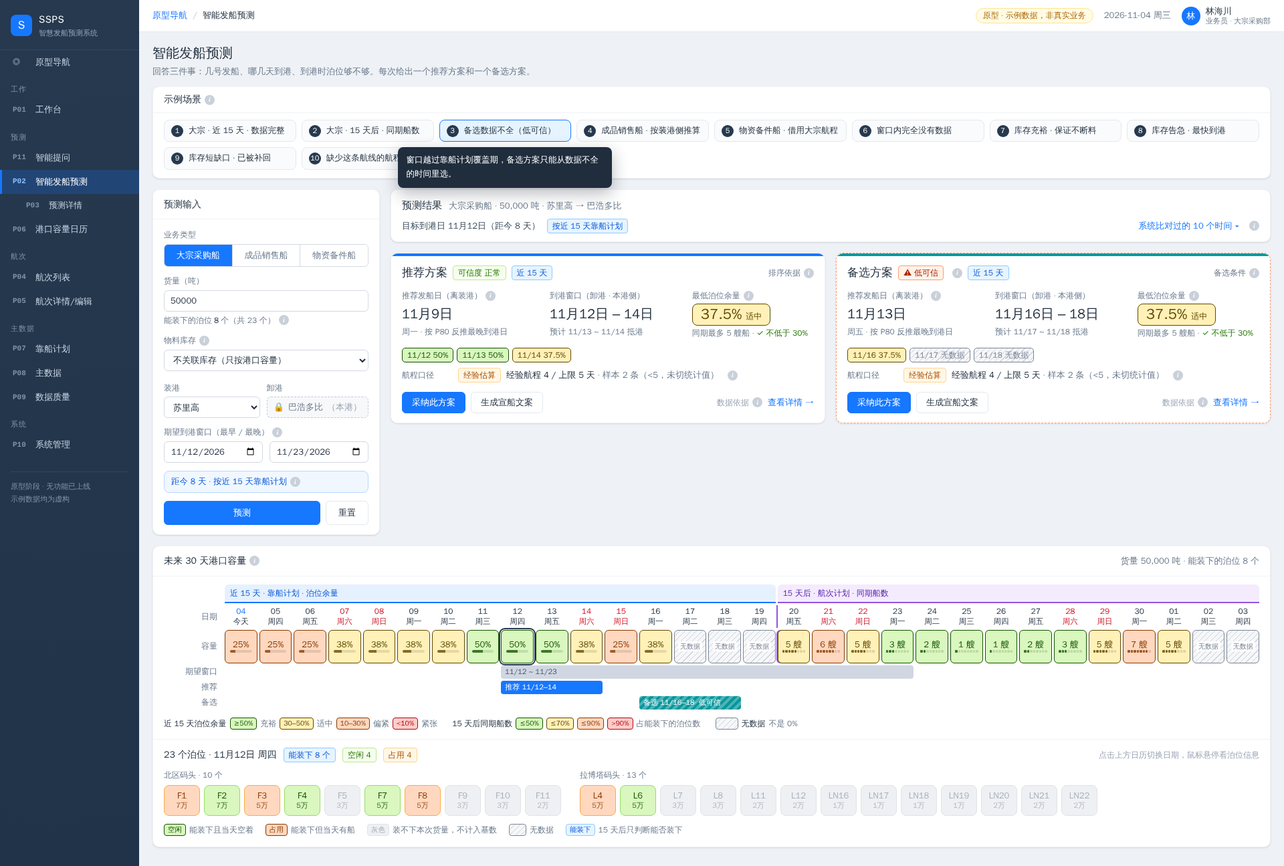
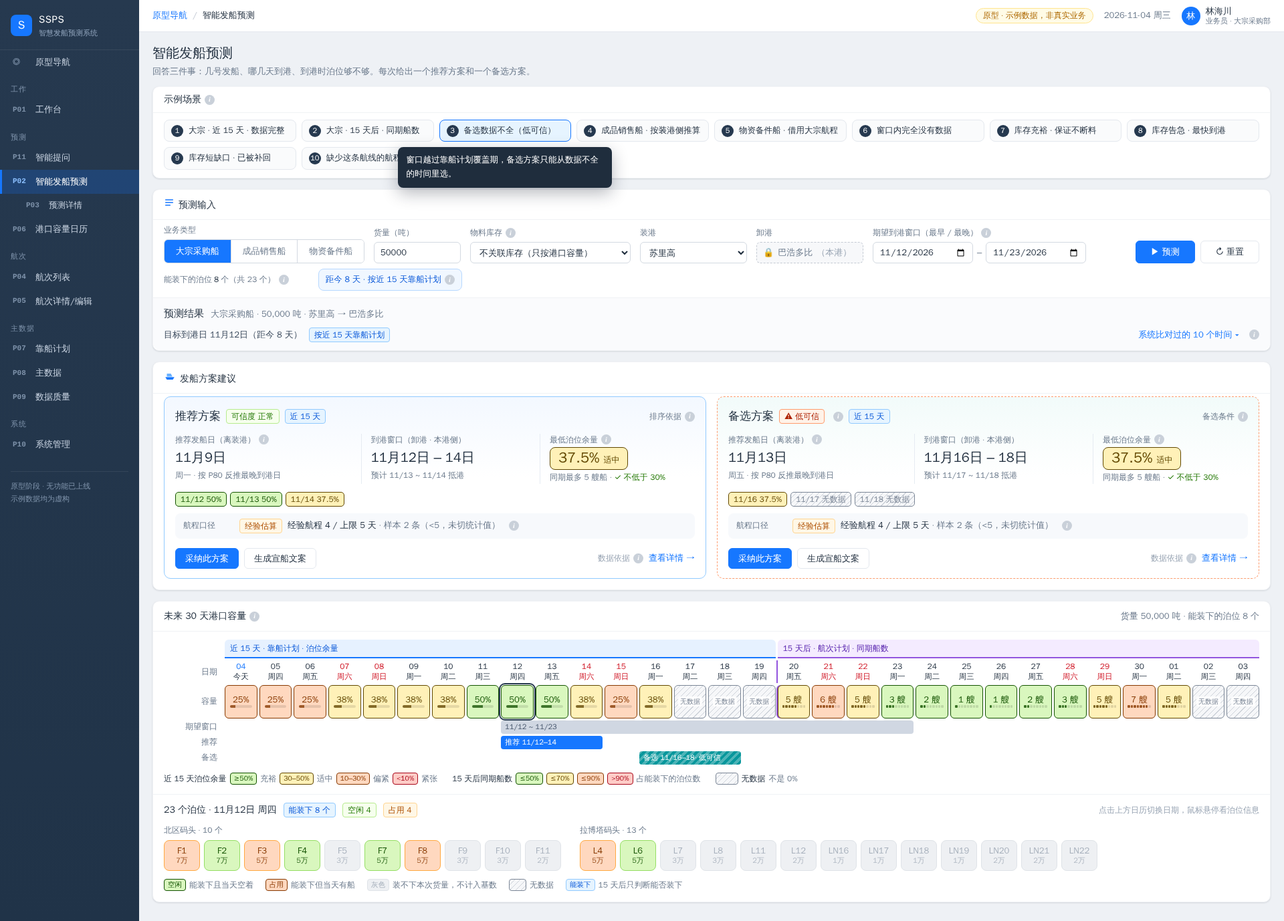
P02 按效果图重新排版：横向预测输入、发船方案建议卡、库存保障与趋势（左指标右图表，趋势/明细与 7/15/30 天切换）；计算不变
Claude-Session: https://claude.ai/code/session_01S7EgPzREeeBA8rsxhMLUP6

diff --git a/prototype/P02-prediction.html b/prototype/P02-prediction.html
@@ -8,7 +8,17 @@
 <style>
 /* —— 整体：所有短文本一律不换行，放不下就整块换到下一行，而不是在文字中间断开 —— */
 .nw{white-space:nowrap}
-.work{display:grid;grid-template-columns:340px minmax(0,1fr);gap:16px;align-items:start}
+/* 预测输入：横向一行（2026-11-05 按效果图重排，业务逻辑不变） */
+.inbar{margin-bottom:16px}
+.frow{display:flex;flex-wrap:wrap;gap:12px 14px;align-items:flex-end;padding:6px 16px 8px}
+.fc{min-width:0}
+.fc .seg{width:300px}.fc .seg button{padding:7px 4px;white-space:nowrap}
+.win{display:flex;align-items:center;gap:6px}.win .inp{width:150px}.win span{color:var(--muted)}
+.fbtn{display:flex;gap:8px;margin-left:auto}.fbtn .btn{height:34px;padding:0 22px;white-space:nowrap}
+.hints{display:flex;flex-wrap:wrap;gap:6px 22px;align-items:center;padding:0 16px 10px}
+.hints .mini{margin:0}.hints .pathbox{margin:0}.hints .err{margin:0}
+#sumbar:empty{display:none}
+#sumbar{border-top:1px solid var(--line-2);background:#fafbfd;border-radius:0 0 12px 12px}
 /* 示例场景 */
 .pbar{display:grid;grid-template-columns:repeat(auto-fit,minmax(196px,1fr));gap:8px;padding:10px 16px 12px}
 .preset{display:flex;gap:8px;align-items:center;border:1px solid var(--line);border-radius:8px;background:#fafbfc;padding:6px 10px;cursor:pointer;text-align:left;min-width:0}
@@ -43,6 +53,17 @@
 .link{border:0;background:none;color:var(--primary);cursor:pointer;padding:0;font-size:13px;white-space:nowrap}
 /* 方案卡片 */
 .plans{display:grid;grid-template-columns:repeat(auto-fit,minmax(580px,1fr));gap:16px;margin-top:16px}
+/* 发船方案建议 */
+.pcard{margin-bottom:16px}
+.pcard .plans{margin:0;padding:4px 16px 16px}
+.pcard .plan{box-shadow:none;border:1px solid #e3e8ef}
+.pcard .plan:before{display:none}
+.pcard .plan.A{background:linear-gradient(180deg,#f3f8ff 0,#fff 120px);border-color:#91caff}
+.pcard .plan.B{background:linear-gradient(180deg,#f2fbfa 0,#fff 120px);border-color:#87e8de}
+.pcard .plan.low{border:1.5px dashed #ff9c6e}
+.pcard .plan.noplan{border:1.5px dashed #c4cad3}
+.pcard .mgrid .m+.m{border-left:1px solid #e6ebf2;padding-left:14px}
+.pcard .kvs{margin:10px 16px 0;padding:8px 12px;background:#f7f9fc;border-radius:8px}
 .plan{position:relative;overflow:hidden;min-width:0}
 .plan:before{content:"";position:absolute;left:0;right:0;top:0;height:4px;background:var(--primary)}
 .plan.B:before{background:#08979c}
@@ -122,7 +143,29 @@
 .bm-l .g{display:flex;align-items:center;gap:5px;white-space:nowrap}
 .bm-l .sw{min-width:26px}
 /* 库存保障 */
-.stk{margin-top:16px}
+.stk{margin-top:0}
+.stk-b{display:grid;grid-template-columns:270px minmax(0,1fr);gap:16px;padding:6px 16px 12px}
+.stk-l{display:flex;flex-direction:column;gap:8px}
+.sr{display:flex;align-items:center;justify-content:space-between;gap:8px;border:1px solid #e6ebf2;border-radius:8px;padding:9px 12px;background:#fbfcfe;white-space:nowrap}
+.sr .k{color:var(--muted);font-size:13px}.sr .v{font-weight:700;font-size:16px}.sr .v small{font-size:12px;font-weight:500;color:var(--muted);margin-left:3px}
+.sr.red{background:#fff1f0;border-color:#ffccc7}.sr.red .v{color:#cf1322}
+.sr.grn{background:#f6ffed;border-color:#d9f7be}.sr.grn .v{color:#237804}
+.stk-r{border:1px solid #e6ebf2;border-radius:10px;min-width:0}
+.tabs2{display:flex;align-items:center;gap:8px;padding:0 12px;border-bottom:1px solid var(--line-2)}
+.tabs2 .tb{border:0;background:none;padding:8px 6px;font-size:14px;color:#5b6878;cursor:pointer;border-bottom:2px solid transparent;margin-bottom:-1px;white-space:nowrap}
+.tabs2 .tb.on{color:#0958d9;border-bottom-color:#1677ff;font-weight:600}
+.tabs2 .sp{flex:1}
+.rseg{display:inline-flex;border:1px solid var(--line);border-radius:6px;overflow:hidden}
+.rseg button{border:0;background:#fff;padding:3px 12px;font-size:13px;cursor:pointer;color:#3b4a5c;border-left:1px solid var(--line);white-space:nowrap}
+.rseg button:first-child{border-left:0}.rseg button.on{background:#1677ff;color:#fff}
+.lgd{display:flex;gap:18px;justify-content:center;flex-wrap:wrap;font-size:12px;color:#5b6878;padding:8px 12px 0}
+.lgd i{display:inline-block;width:22px;height:0;border-top:2.4px solid;vertical-align:middle;margin-right:5px}
+.dtw{max-height:300px;overflow:auto;margin:10px 12px}
+.dt{width:100%;border-collapse:collapse;font-size:13px}
+.dt th{text-align:left;color:var(--muted);font-weight:500;padding:6px 8px;border-bottom:1px solid var(--line);position:sticky;top:0;background:#fff}
+.dt td{padding:5px 8px;border-bottom:1px solid var(--line-2);white-space:nowrap}
+.dt .r{text-align:right}.dt tr.k td{background:#fffbe6}.dt tr.so td{background:#fff1f0;color:#a8071a}
+@media(max-width:1100px){.stk-b{grid-template-columns:1fr}.fbtn{margin-left:0}}
 .stk .facts{display:grid;grid-template-columns:repeat(5,minmax(0,1fr));gap:8px 16px;padding:10px 16px 2px}
 .stk .facts .k{font-size:12px;color:var(--muted);white-space:nowrap}
 .stk .facts .v{font-size:18px;font-weight:700;white-space:nowrap}
@@ -132,7 +175,7 @@
 .stk .bn{margin:8px 16px 0;border-radius:8px;padding:8px 12px;font-size:13px;line-height:1.7}
 .stk .bn.red{background:#fff1f0;border:1px solid #ffa39e;color:#a8071a}
 .stk .bn.blu{background:#f0f7ff;border:1px solid #b7d8ff;color:#0958d9}
-.stk svg{padding:0 8px 8px}
+.stk-r > div > svg{padding:0 8px 8px}
 .mk.lt{background:#fa8c16}.mk.so{background:#cf1322}
 /* 弹窗 */
 .annc{background:#f7f9fc;border:1px solid var(--line);border-radius:8px;padding:12px 14px;line-height:2;font-size:13.5px}
@@ -159,29 +202,21 @@
         <div class="pbar" id="presets"></div>
       </section>
 
-      <div class="work">
-        <section class="card">
-          <div class="card-h"><h2>预测输入</h2></div>
-          <div class="card-b">
-            <div class="field"><div class="f-lab">业务类型</div><div class="seg" id="biz"></div></div>
-            <div class="field"><div class="f-lab">货量（吨）</div>
-              <input class="inp" id="tons" type="number" min="1000" step="1000">
-              <div class="mini" id="poolHint"></div></div>
-            <div class="field"><div class="f-lab">物料库存<span class="i" data-tip="选一个物料，预测会按库存消耗模拟表保证不断料：到港窗口必须早于「断料日 − 缓冲天数」。\n只对大宗采购船有效；选「不关联库存」就只按港口容量预测。">i</span></div>
-              <select class="inp" id="item"></select><div class="mini" id="itemHint"></div></div>
-            <div class="row2">
-              <div class="field"><div class="f-lab">装港</div><div id="loadBox"></div></div>
-              <div class="field"><div class="f-lab">卸港</div><div id="dischBox"></div></div>
-            </div>
-            <div class="field"><div class="f-lab" id="winLabel">期望到港窗口</div>
-              <div class="row2"><input class="inp" id="ws" type="date"><input class="inp" id="we" type="date"></div>
-              <div class="err" id="formErr"></div></div>
-            <div class="pathbox le" id="pathbox"></div>
-            <div style="display:flex;gap:8px"><button class="btn primary lg" id="go" style="flex:1">预测</button><button class="btn lg" id="reset">重置</button></div>
-          </div>
-        </section>
-        <section id="result"></section>
-      </div>
+      <section class="card inbar">
+        <div class="card-h"><h2 class="nw"><svg width="16" height="16" viewBox="0 0 24 24" style="margin-right:6px"><path d="M4 6h16M4 12h16M4 18h10" stroke="#1677ff" stroke-width="2.2" stroke-linecap="round"/></svg>预测输入</h2></div>
+        <div class="frow">
+          <div class="fc"><div class="f-lab">业务类型</div><div class="seg" id="biz"></div></div>
+          <div class="fc" style="width:130px"><div class="f-lab">货量（吨）</div><input class="inp" id="tons" type="number" min="1000" step="1000"></div>
+          <div class="fc" style="width:240px"><div class="f-lab">物料库存<span class="i" data-tip="选一个物料，预测会按库存消耗模拟表保证不断料：到港窗口必须早于「断料日 − 缓冲天数」。\n只对大宗采购船有效；选「不关联库存」就只按港口容量预测。">i</span></div><select class="inp" id="item"></select></div>
+          <div class="fc" style="width:160px"><div class="f-lab">装港</div><div id="loadBox"></div></div>
+          <div class="fc" style="width:160px"><div class="f-lab">卸港</div><div id="dischBox"></div></div>
+          <div class="fc"><div class="f-lab" id="winLabel">期望到港窗口</div><div class="win"><input class="inp" id="ws" type="date"><span>–</span><input class="inp" id="we" type="date"></div></div>
+          <div class="fc fbtn"><button class="btn primary" id="go">▶ 预测</button><button class="btn" id="reset">↻ 重置</button></div>
+        </div>
+        <div class="hints"><span class="mini" id="poolHint"></span><span class="mini" id="itemHint"></span><span class="pathbox le" id="pathbox"></span><span class="err" id="formErr"></span></div>
+        <div id="sumbar"></div>
+      </section>
+      <section id="result"></section>
 
       <section class="card" style="margin-top:16px">
         <div class="card-h"><h2 class="nw">未来 30 天港口容量<span class="i" data-tip="泊位余量率是唯一的容量指标：空闲泊位 ÷ 能装下该货量的泊位总数，越高越宽松。\n30% 是备选方案的底线；其余色阶分界为原型暂定值。\n灰色斜线表示暂无数据，不是 0%。">i</span></h2><span class="muted nw" id="calMeta"></span></div>
@@ -240,7 +275,7 @@
     { label: '缺少这条航线的航程', tip: '泗水 → 巴浩多比 还没有维护航程。',
       v: { biz: '大宗采购船', tons: 30000, load: 'SURABAYA', disch: LOCAL, ws: '2026-11-10', we: '2026-11-18' } },
   ];
-  let cur = 0, last = null, showCands = false, selDay = null, curTons = 50000, bufDays = 3;
+  let cur = 0, last = null, showCands = false, selDay = null, curTons = 50000, bufDays = 3, stkView = 'trend', stkRange = 0;
 
   // ---------- 小工具 ----------
   const fmt = (n) => Number(n).toLocaleString('en-US');
@@ -411,13 +446,35 @@
       note += '<div class="bn red"><b>按最快航程也赶不上断料日。</b>' + (e ? '最早 ' + mdCn(e) + ' 到港' + (so != null ? '，比断料日（' + mdCn(so) + '）晚 ' + (e - so) + ' 天，预计断料约 ' + gap + ' 天' : '') + '。' : '') + '已改为「最快到港」优先，不再要求港口余量；请同时联系供应商或调拨，别只等这一船。</div>';
     } else if (so == null) note += '<div class="bn blu">模拟期内这个物料不会断料，预测只按港口容量安排。</div>';
     else note += '<div class="bn blu">所有候选都已排除到港晚于 <b>' + mdCn(st.latest) + '</b>（断料日 ' + mdCn(so) + ' 前 ' + st.buffer + ' 天）的时间；在剩下的时间里，按港口容量选最宽松的。这是硬约束，不参与任何评分。</div>';
-    return '<div class="card stk"><div class="card-h"><h2>库存保障 · ' + it.name + '<span class="lvl ' + l[0] + '">' + l[1] + '</span>' + ic('断料日来自库存消耗模拟表（已包含已排定的到货）。预测要求到港窗口的最后一天不晚于「断料日 − 缓冲天数」，否则判为断料。方案到港后库存按虚线回升。') + '</h2><span class="muted nw">' + M.inventory.source + ' · 更新于 ' + M.inventory.updated.slice(0, 10) + '</span></div>' +
-      '<div class="facts"><div><div class="k">当前库存</div><div class="v">' + fmt(it.stock) + '<small>吨</small></div></div><div><div class="k">日耗</div><div class="v">' + fmt(it.daily) + '<small>吨/天</small></div></div><div><div class="k">可用天数</div><div class="v">' + it.days + '<small>天</small></div></div>' +
-      '<div><div class="k">断料日</div><div class="v">' + (so != null ? mdCn(so) : '不断料') + '<small>' + (so != null ? (so <= E.TODAY ? '已断料' : '距今 ' + (so - E.TODAY) + ' 天') : '') + '</small></div></div><div><div class="k">最晚到港日（缓冲 ' + st.buffer + ' 天）</div><div class="v">' + (st.latest != null ? mdCn(st.latest) : '—') + '<small>' + (st.latest != null && st.latest < E.TODAY ? '已错过' : '') + '</small></div></div></div>' +
-      note + '<div>' + window.StockChart.html(it, { latest: st.latest, so: st.so, gap: st.gap, marks, warnDays: 15, width: Math.max(560, ($('result').clientWidth || 1000) - 30) }) + '</div></div>';
+    const sr = (k, v, cls) => '<div class="sr ' + (cls || '') + '"><span class="k">' + k + '</span><span class="v">' + v + '</span></div>';
+    const left = sr('当前库存', fmt(it.stock) + '<small>吨</small>') + sr('日耗', fmt(it.daily) + '<small>吨/天</small>') + sr('可用天数', it.days + '<small>天</small><span class="lvl ' + l[0] + '">' + l[1] + '</span>') +
+      sr('断料日', so != null ? mdCn(so) + '<small>' + (so <= E.TODAY ? '已断料' : '距今 ' + (so - E.TODAY) + ' 天') + '</small>' : '不断料<small>模拟期内</small>', so != null ? 'red' : 'grn') +
+      (st.gap ? sr('近期短缺口', E.md(st.gap.from) + (st.gap.to > st.gap.from ? '–' + E.md(st.gap.to) : '') + '<small>已被补回</small>') : '') +
+      sr('最晚到港日', (st.latest != null ? mdCn(st.latest) : '—') + '<small>' + (st.latest != null && st.latest < E.TODAY ? '已错过' : '缓冲 ' + st.buffer + ' 天') + '</small>');
+    const until = stkRange ? E.TODAY + stkRange : Math.min(Math.max(E.TODAY + 45, (so || 0) + 14, (st.latest || 0) + 14, ...marks.map((m) => m.d + 14)), E.TODAY + 100);
+    const tabs = '<div class="tabs2"><button class="tb' + (stkView === 'trend' ? ' on' : '') + '" data-sv="trend">库存趋势预测</button><button class="tb' + (stkView === 'detail' ? ' on' : '') + '" data-sv="detail">库存明细</button><span class="sp"></span>' +
+      '<span class="rseg">' + [[7, '7天'], [15, '15天'], [30, '30天'], [0, '全部']].map(([n, t]) => '<button data-sr="' + n + '" class="' + (stkRange === n ? 'on' : '') + '">' + t + '</button>').join('') + '</span>' +
+      ic('只改变显示范围，不改变计算。断料日、最晚到港日或方案到港日超出所选范围时不画出来，选「全部」可以看到。') + '</div>';
+    let body;
+    if (stkView === 'trend') {
+      body = '<div class="lgd"><span><i style="border-color:#1677ff"></i>模拟库存</span>' + (A ? '<span><i style="border-color:#1677ff;border-top-style:dashed"></i>加入推荐方案后</span>' : '') + (B ? '<span><i style="border-color:#08979c;border-top-style:dashed"></i>加入备选方案后</span>' : '') +
+        '<span><i style="border-color:#fa8c16;border-top-style:dashed"></i>危险线（15 天用量）</span></div>' +
+        '<div>' + window.StockChart.html(it, { latest: st.latest, so: st.so, gap: st.gap, marks, warnDays: 15, until: stkRange ? until : undefined, width: Math.max(520, ($('result').clientWidth || 1200) - 340) }) + '</div>';
+    } else {
+      let prev = null;
+      const rows = it.series.filter((x) => x[0] >= E.TODAY && x[0] <= until).map((x) => { const [d, s0, dl] = x, tg = [];
+        if (d === E.TODAY) tg.push('今天'); if (st.gap && d === st.gap.from) tg.push('短缺口开始'); if (d === st.latest) tg.push('最晚到港'); if (d === so) tg.push('断料日');
+        marks.forEach((m) => { if (m.d === d) tg.push((m.label === 'A' ? '推荐' : '备选') + '方案到港'); });
+        if (prev != null && s0 > prev) tg.push('到货 +' + fmt(s0 - prev + dl)); prev = s0;
+        return '<tr class="' + (d === so ? 'so' : tg.length ? 'k' : '') + '"><td>' + E.md(d) + '</td><td>' + wk(d) + '</td><td class="r">' + fmt(dl) + '</td><td class="r">' + fmt(s0) + '</td><td class="r">' + (dl ? Math.floor(s0 / dl) : '—') + '</td><td>' + tg.join('、') + '</td></tr>'; }).join('');
+      body = '<div class="dtw"><table class="dt"><thead><tr><th>日期</th><th>星期</th><th class="r">日耗（吨）</th><th class="r">模拟库存（吨）</th><th class="r">可用天数</th><th>标记</th></tr></thead><tbody>' + rows + '</tbody></table></div>';
+    }
+    return '<div class="card stk"><div class="card-h"><h2 class="nw"><svg width="18" height="18" viewBox="0 0 24 24" style="margin-right:6px"><path d="M4 20V10h4v10zM10 20V4h4v16zM16 20v-7h4v7z" fill="#1677ff"/></svg>库存保障与趋势 · ' + it.name + ic('断料日来自库存消耗模拟表（已包含已排定的到货）。预测要求到港窗口的最后一天不晚于「断料日 − 缓冲天数」，否则判为断料。方案到港后库存按虚线回升。') + '</h2><span class="muted nw">' + M.inventory.source + ' · 更新于 ' + M.inventory.updated.slice(0, 10) + '</span></div>' +
+      '<div class="stk-b"><div class="stk-l">' + left + '</div><div class="stk-r">' + tabs + body + '</div></div>' + note + '<div style="height:12px"></div></div>';
   }
   function renderResult(res) {
     const el = $('result');
+    $('sumbar').innerHTML = '';
     if (res.errors.length) { el.innerHTML = '<div class="card banner err"><div class="ico">!</div><div><h3>暂时无法预测</h3><p>' + res.errors.join('；') + '</p></div></div>'; return; }
     if (res.noRule) {
       el.innerHTML = '<div class="card banner err"><div class="ico">!</div><div><h3>没有找到「' + zh(res.input.load) + ' → ' + zh(res.input.disch) + '」的航程</h3><p>没有航程就推不出发船日。请先在主数据里补一条这条航线的估算航程；同航线实际航次累计到 5 个后，系统会改用历史统计。</p></div></div>'; return;
@@ -431,18 +488,21 @@
       return '<span class="cand ' + k + (c.complete ? '' : ' sp') + '">' + (mark ? '<i class="' + (mark === 'B' ? 'b' : '') + '">' + (mark === 'A' ? '推荐' : '备选') + '</i>' : '') +
         E.md(c.s) + '–' + E.md(c.e).slice(3) + ' ' + txt + (c.complete || c.none ? '' : '*') + '</span>';
     }).join('');
-    let h = '<div class="card sum"><div class="sum-t"><h2>预测结果</h2><span>' + res.input.biz + ' · ' + fmt(res.input.tons) + ' 吨 · ' + zh(res.input.load) + ' → ' + zh(res.input.disch) + '</span></div>' +
+    let h = '<div class="sum"><div class="sum-t"><h2>预测结果</h2><span>' + res.input.biz + ' · ' + fmt(res.input.tons) + ' 吨 · ' + zh(res.input.load) + ' → ' + zh(res.input.disch) + '</span></div>' +
       '<div class="sum-m"><span class="nw">目标到港日 ' + mdCn(r.target) + '（距今 ' + r.dist + ' 天）</span>' +
       '<span class="tag ' + (le || mixed ? 'blue' : '') + ' nw"' + (le || mixed ? '' : ' style="background:#f9f0ff;color:#531dab;border-color:#d3adf7"') + '>' + (mixed ? '各候选日期分别计算' : le ? '按近 15 天靠船计划' : '按 15 天后航次计划') + '</span>' +
       '<span class="sp"></span><button class="link" id="togCand">系统比对过的 ' + (res.candidates || []).length + ' 个时间 ' + (showCands ? '▴' : '▾') + '</button>' +
       ic('把期望窗口切成每 3 天一档、每次挪一天，逐档计算后挑出推荐和备选。\\n框里是该档的' + (mixed ? '最低泊位余量（近 15 天）或同期最多船数（15 天后）' : le ? '最低泊位余量' : '同期最多船数') + '；带星号表示窗口里有没数据的日子，只按有数据的天数算。') + '</div>' +
       (showCands ? '<div class="cands"><div class="ct">候选窗口（3 天一档，' + (mixed ? '近 15 天按最低泊位余量、15 天后按同期最多船数，各自排序' : '按' + (le ? '最低泊位余量从高到低' : '同期最多船数从少到多')) + '，不使用综合评分）：</div>' + cands + (res.excluded.pastDepart ? '<span class="muted nw">另有 ' + res.excluded.pastDepart + ' 个时间的发船日已早于今天，已排除</span>' : '') + '</div>' : '') + '</div>';
+    $('sumbar').innerHTML = h; h = '';
     if (res.noCandidate) {
       h += '<div class="card banner"><div class="ico"></div><div><h3>窗口内没有可以推荐的时间</h3><p>' + (le ? '靠船计划只到 ' + mdCn(E.planCoverTo) : '航次计划只到 ' + mdCn(E.voyHorizon)) + '，这个窗口全部没有数据（灰色斜线，不是 0%）。系统不会因为没有数据而改用另一条计算路径，建议把窗口提前，或等下一期靠船计划。</p></div></div>';
-    } else h += '<div class="plans">' + planCard(res.plans[0], res) + planCard(res.plans[1] || null, res) + '</div>';
+    } else h += '<div class="card pcard"><div class="card-h"><h2 class="nw"><svg width="18" height="18" viewBox="0 0 24 24" style="margin-right:6px"><path d="M3 15h18l-3 5H6z" fill="#1677ff"/><path d="M6 14V8h8l3 6z" fill="#69b1ff"/></svg>发船方案建议</h2></div><div class="plans">' + planCard(res.plans[0], res) + planCard(res.plans[1] || null, res) + '</div></div>';
     h += stockCard(res);                                             // 方案在上、库存模拟图在下（2026-11-05 Leyinet）
     el.innerHTML = h;
     const tg = $('togCand'); if (tg) tg.onclick = () => { showCands = !showCands; renderResult(last); };
+    el.querySelectorAll('[data-sv]').forEach((b) => b.onclick = () => { stkView = b.dataset.sv; renderResult(last); });
+    el.querySelectorAll('[data-sr]').forEach((b) => b.onclick = () => { stkRange = +b.dataset.sr; renderResult(last); });
     el.querySelectorAll('[data-detail]').forEach((a) => a.onclick = () => {
       const i = last.input, pl = a.closest('.plan').dataset.plan;
       if (!i.item) location.href = 'P03-prediction-detail.html?' + new URLSearchParams({ biz: i.biz, tons: i.tons, load: i.load, disch: i.disch, ws: i.winStart, we: i.winEnd, plan: pl }); if (i.item) { const q = new URLSearchParams({ biz: i.biz, tons: i.tons, load: i.load, disch: i.disch, ws: i.winStart, we: i.winEnd, plan: pl, item: i.item.name, buf: bufDays, pb: 'end' }); location.href = 'P03-prediction-detail.html?' + q; return; }

diff --git a/docs/review/review-pack-1-spec.md b/docs/review/review-pack-1-spec.md
@@ -1900,6 +1900,7 @@ D01–D10 及 D11–D12 见 `docs/schema/D-app-db.md`。库存断料纳入一期
 - [ ] **P07「是否德信」怎么推导**：T10 已删除这个字段（原始文件没有），但 P07 页面保留「是否德信」列和「只看德信船」筛选（Leyinet 2026-11-05 要求），改为显示时按「从属单位」推导，只用于显示和筛选，不影响泊位余量。真实的从属单位有 130 多种写法，原型暂按「含『德信』」判断。请给出算作德信的写法清单（如 德信DSI、德天DCI 是否算）。
 - [x] **P11 按效果图重构**（2026-11-05）：采纳了四阶段流程（输入需求 → 智能解析 → 库存测算 → 生成方案）、可编辑的解析结果、六张指标卡、库存趋势 / 库存明细切换和 7 / 15 / 30 天显示范围、右侧「按物料 / 按风险」分组。计算全部沿用原引擎。效果图里这几项没有做，因为需要新功能或数据、规格里没有：方案对比、保存方案、导出报告、加入跟踪（需要新的存储表）；右侧「按工序」（库存表没有工序字段）；「库存模型设置」（缓冲天数已在页面里可调，15 / 25 天分档沿用德龙版）；顶部通知铃铛。效果图里的「缺料日」统一叫「断料日」。如需其中某项，确认后再进规格。
 - [x] **P02 方案卡片在库存模拟图上面**（2026-11-05 Leyinet）：已调整顺序。
+- [x] **P02 按效果图重新排版**（2026-11-05）：预测输入改为顶部横向一行，预测结果概览并入输入卡片底部；「发船方案建议」卡片里并排推荐 / 备选；「库存保障与趋势」左侧指标、右侧趋势图 / 库存明细和 7 / 15 / 30 天 / 全部显示范围；港口容量日历不变。计算不变。效果图里的「方案对比」按钮没有做（推荐、备选已并排，规格里没有单独的对比功能），「同步服务船数」「缺料日」「可实施」按规格用语写成「同期最多船数」「断料日」「可信度」。显示范围只裁剪图表，断料日等标记超出范围时不画，默认「全部」。
 
 ## 外部评审第二轮（2026-11-05，核对记录见 docs/review/round2-verification.md）
 

diff --git a/docs/open-questions.md b/docs/open-questions.md
@@ -98,6 +98,7 @@
 - [ ] **P07「是否德信」怎么推导**：T10 已删除这个字段（原始文件没有），但 P07 页面保留「是否德信」列和「只看德信船」筛选（Leyinet 2026-11-05 要求），改为显示时按「从属单位」推导，只用于显示和筛选，不影响泊位余量。真实的从属单位有 130 多种写法，原型暂按「含『德信』」判断。请给出算作德信的写法清单（如 德信DSI、德天DCI 是否算）。
 - [x] **P11 按效果图重构**（2026-11-05）：采纳了四阶段流程（输入需求 → 智能解析 → 库存测算 → 生成方案）、可编辑的解析结果、六张指标卡、库存趋势 / 库存明细切换和 7 / 15 / 30 天显示范围、右侧「按物料 / 按风险」分组。计算全部沿用原引擎。效果图里这几项没有做，因为需要新功能或数据、规格里没有：方案对比、保存方案、导出报告、加入跟踪（需要新的存储表）；右侧「按工序」（库存表没有工序字段）；「库存模型设置」（缓冲天数已在页面里可调，15 / 25 天分档沿用德龙版）；顶部通知铃铛。效果图里的「缺料日」统一叫「断料日」。如需其中某项，确认后再进规格。
 - [x] **P02 方案卡片在库存模拟图上面**（2026-11-05 Leyinet）：已调整顺序。
+- [x] **P02 按效果图重新排版**（2026-11-05）：预测输入改为顶部横向一行，预测结果概览并入输入卡片底部；「发船方案建议」卡片里并排推荐 / 备选；「库存保障与趋势」左侧指标、右侧趋势图 / 库存明细和 7 / 15 / 30 天 / 全部显示范围；港口容量日历不变。计算不变。效果图里的「方案对比」按钮没有做（推荐、备选已并排，规格里没有单独的对比功能），「同步服务船数」「缺料日」「可实施」按规格用语写成「同期最多船数」「断料日」「可信度」。显示范围只裁剪图表，断料日等标记超出范围时不画，默认「全部」。
 
 ## 外部评审第二轮（2026-11-05，核对记录见 docs/review/round2-verification.md）
 
